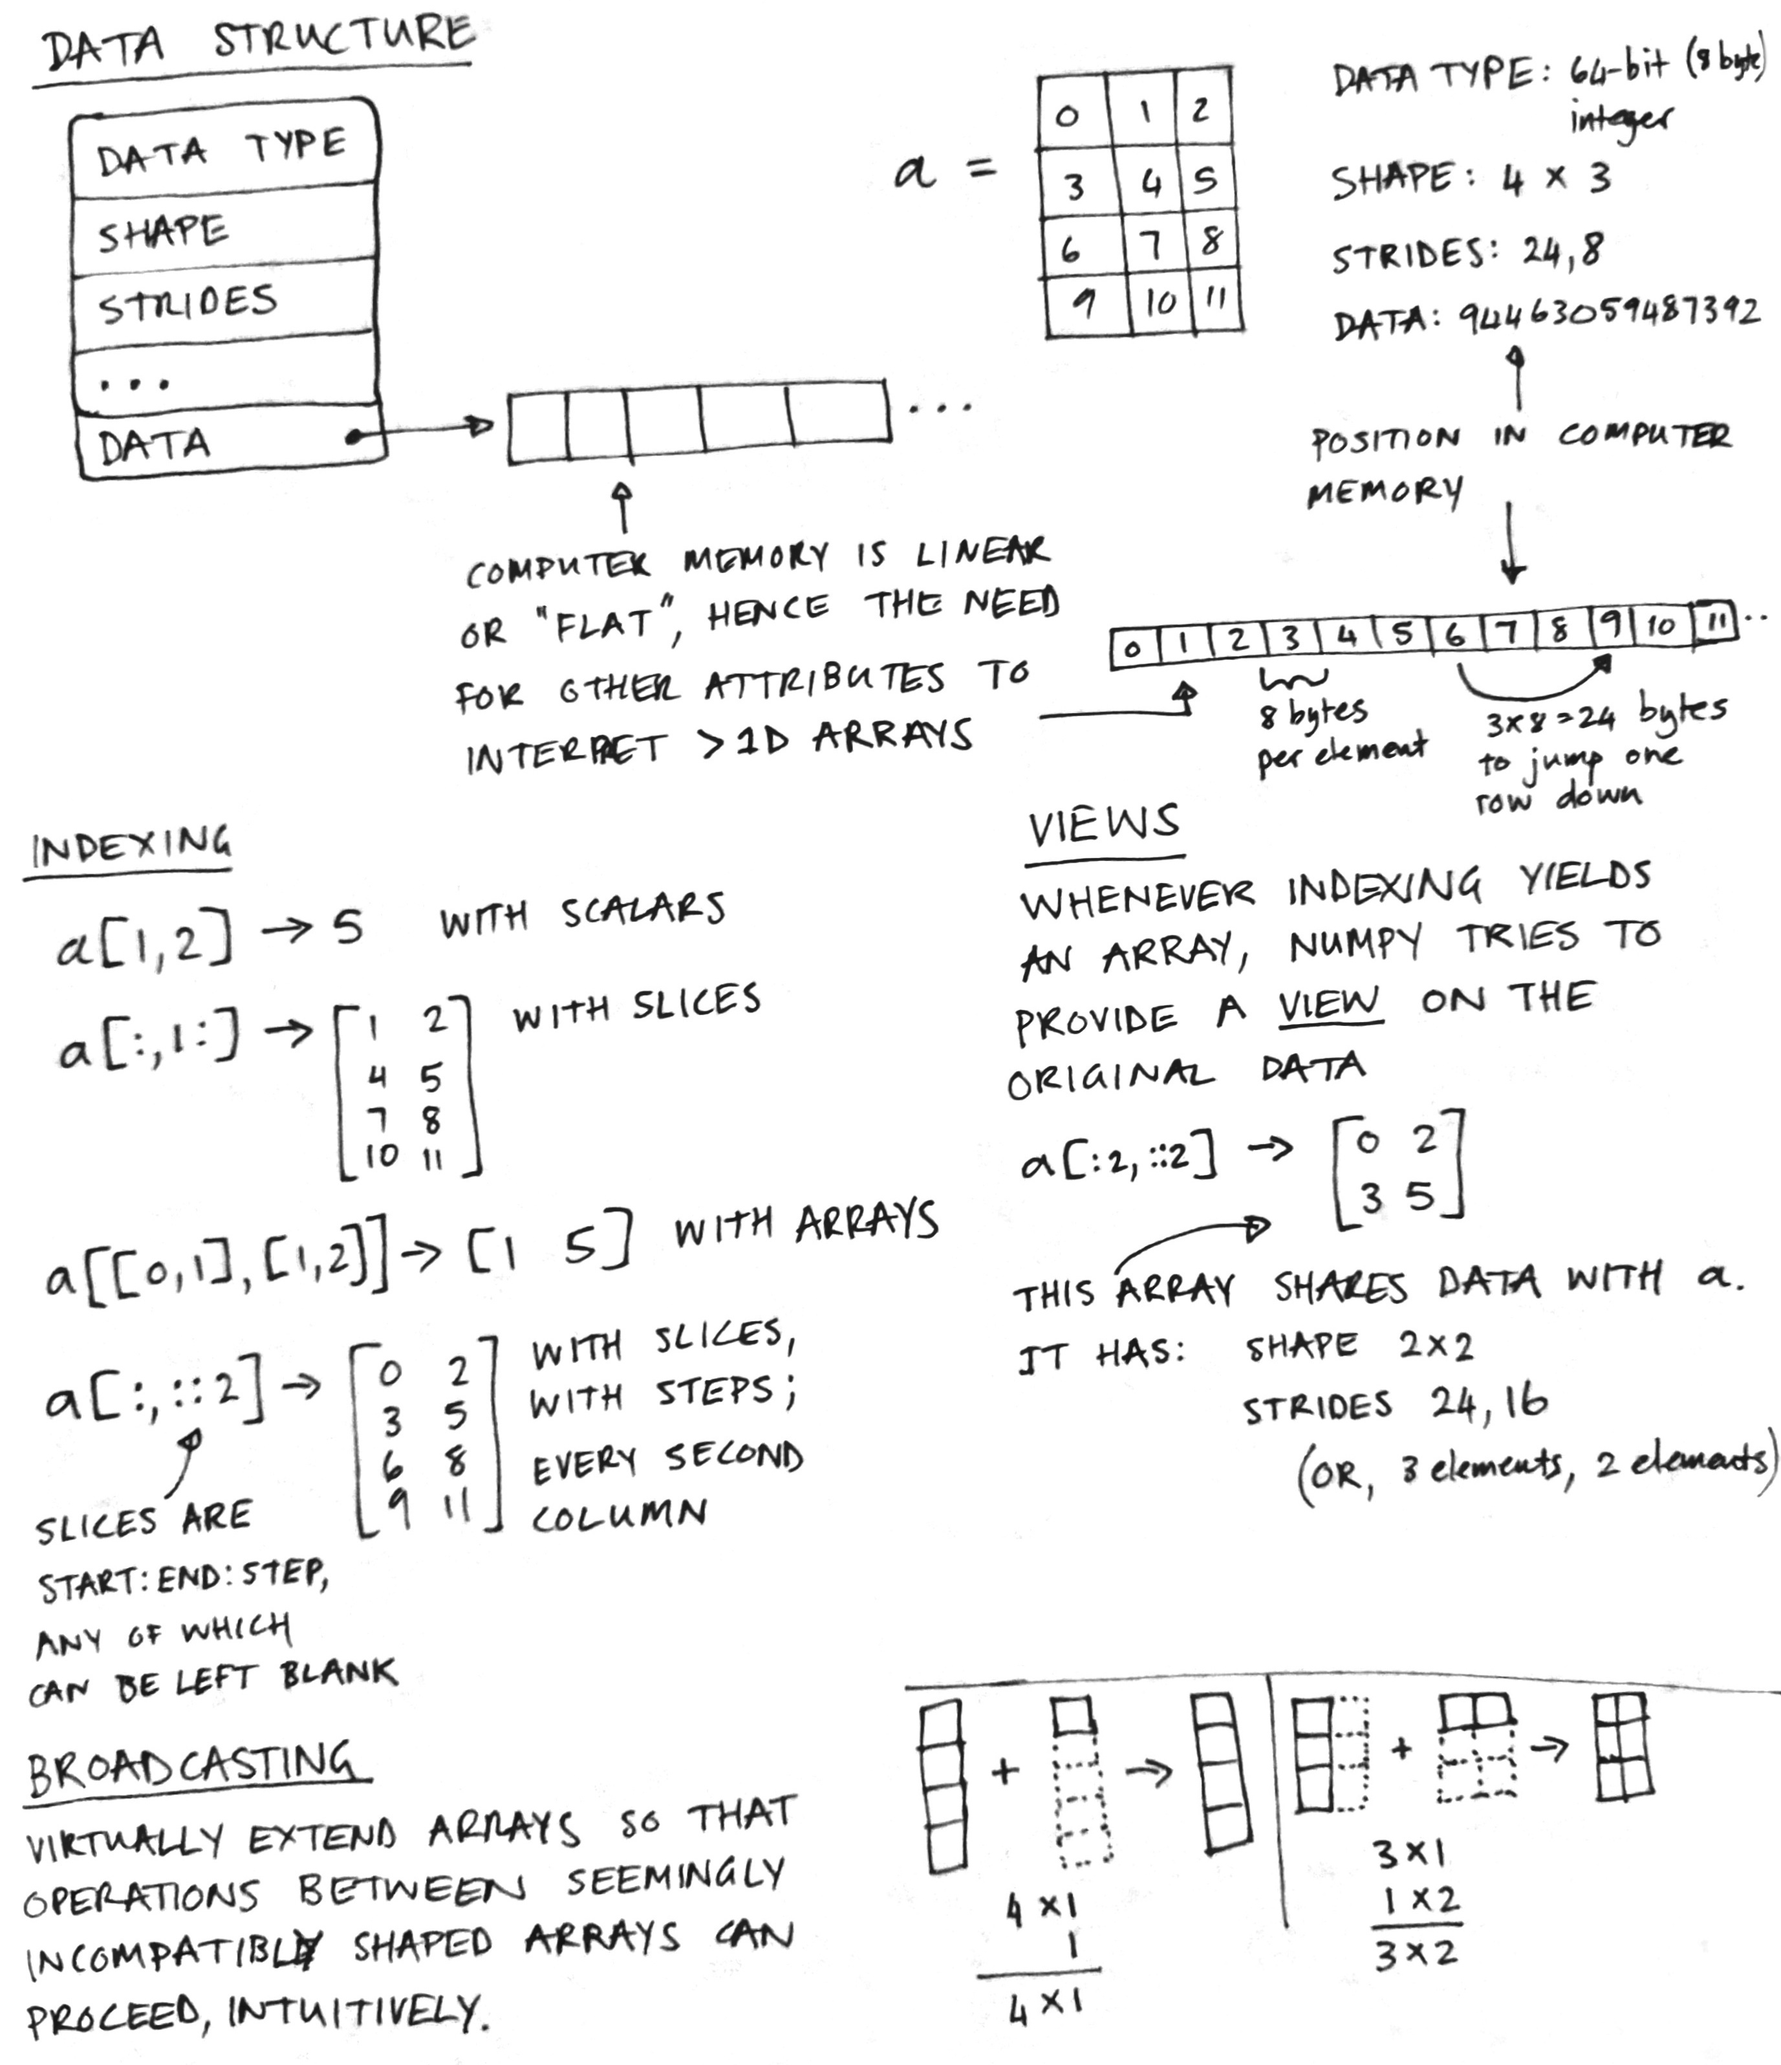
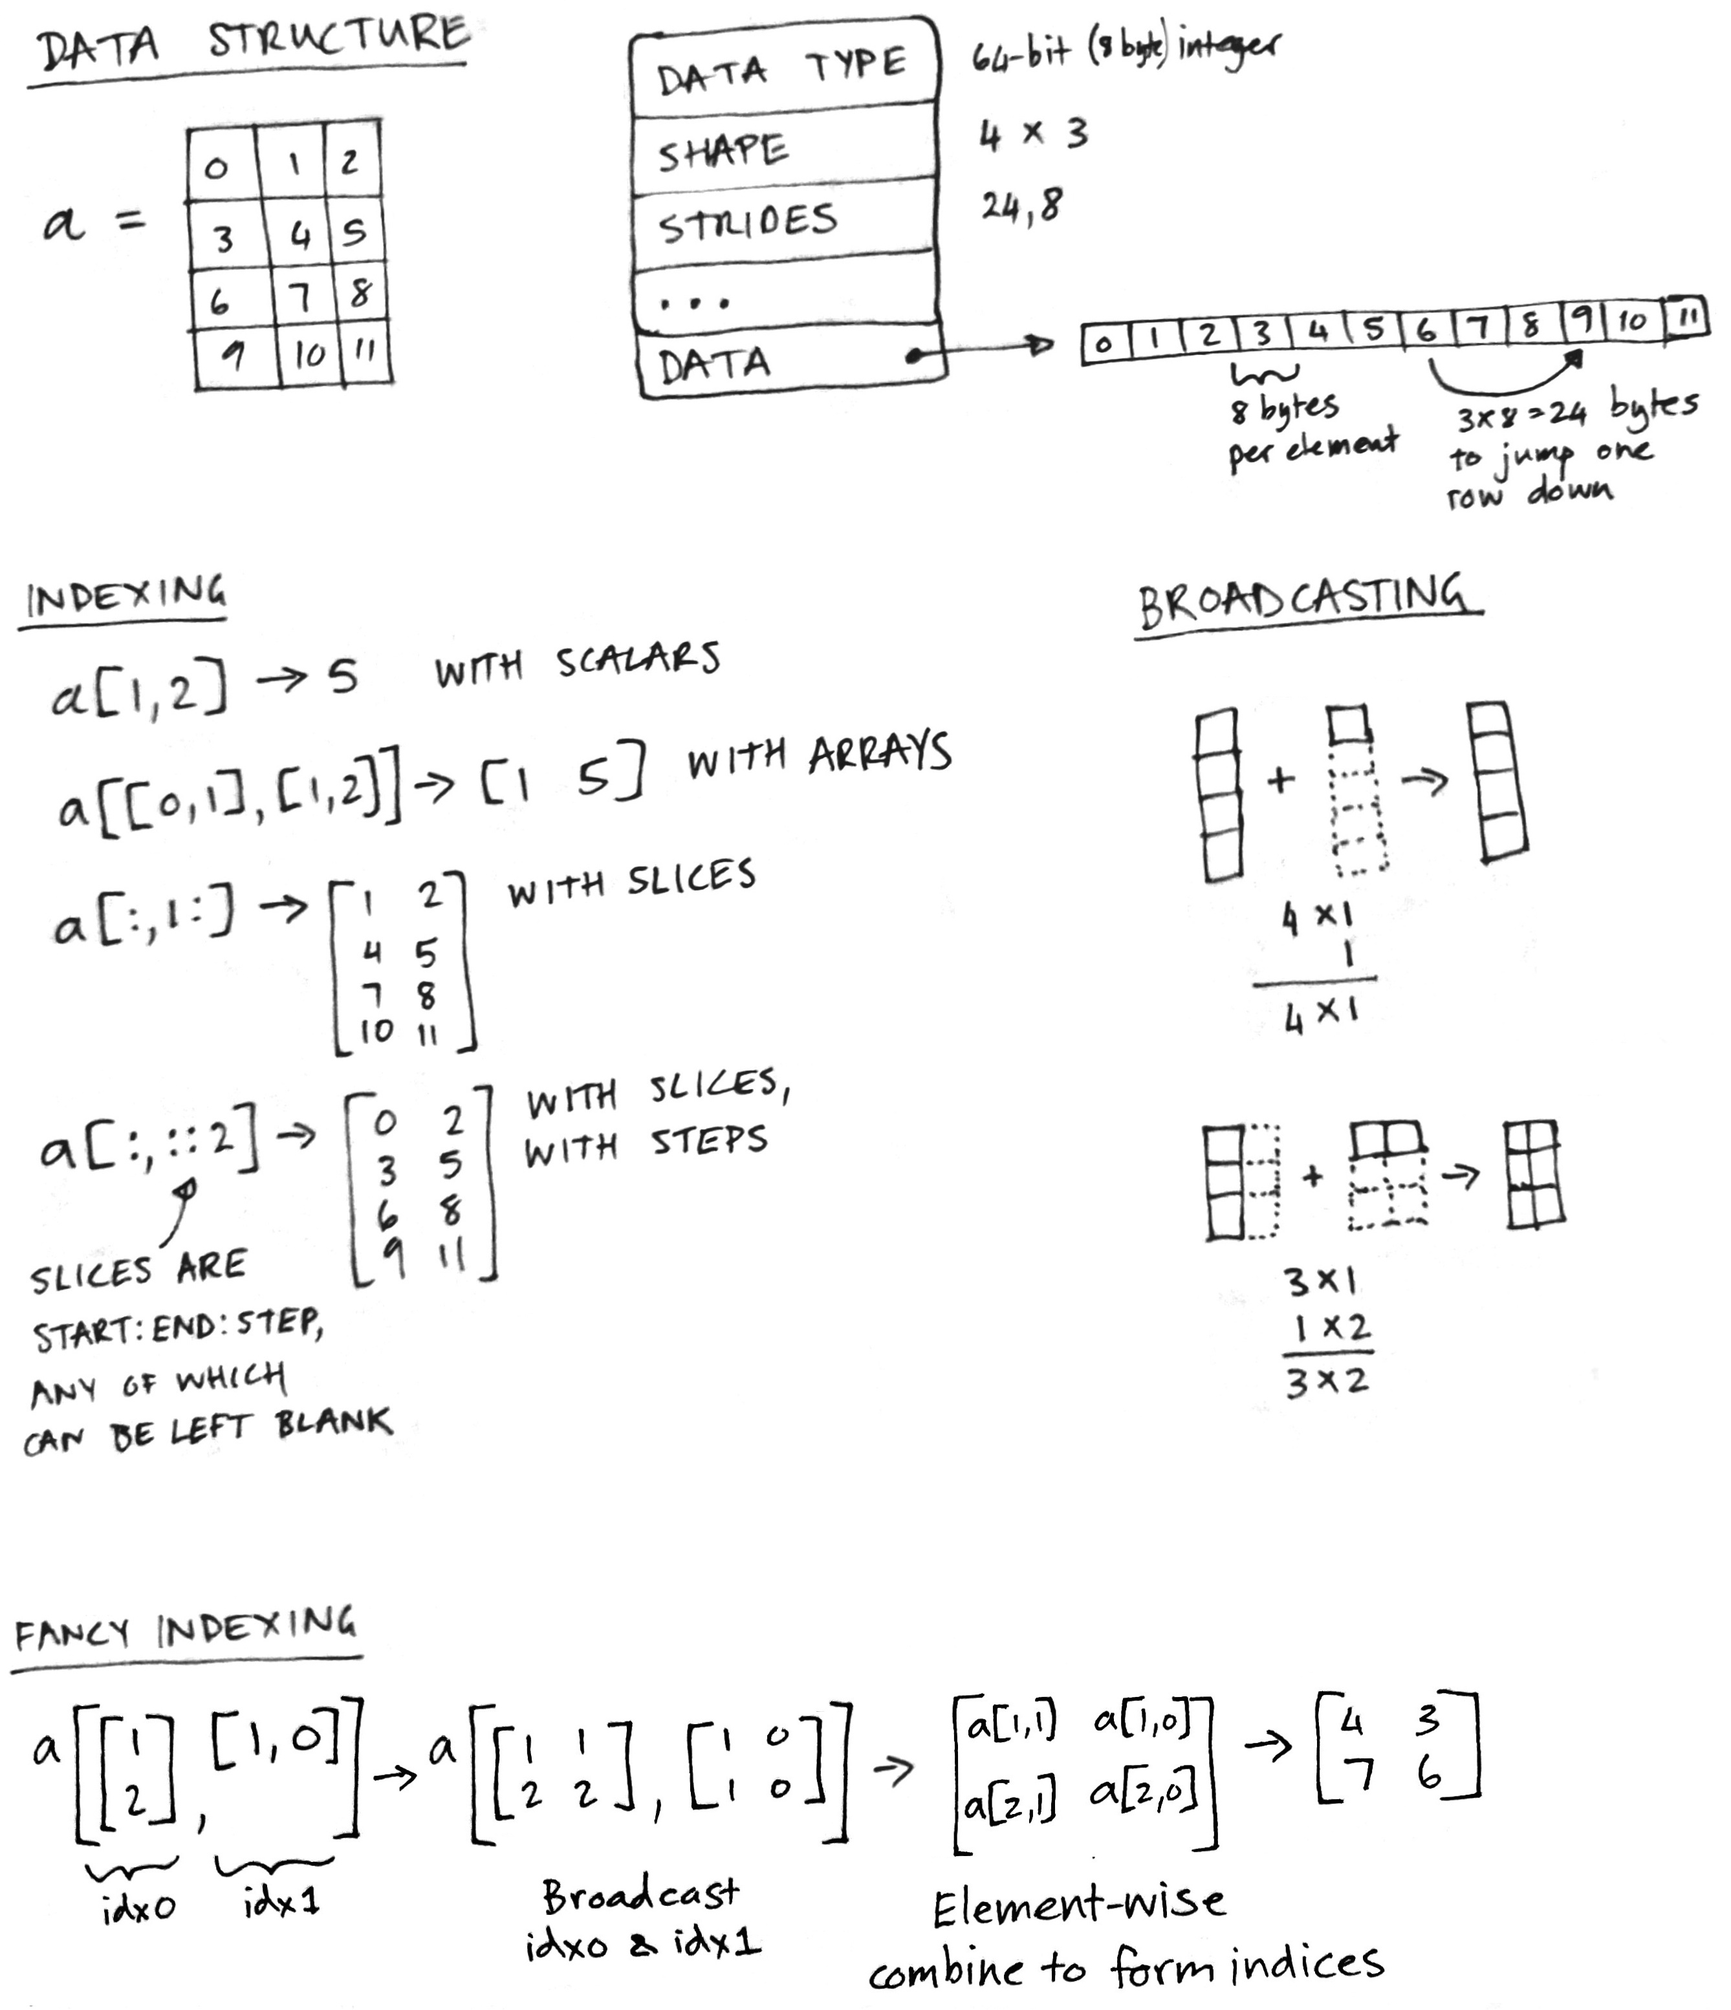
Simplify figure

diff --git a/body.tex b/body.tex
@@ -109,15 +109,15 @@ Other utility functions include creating, reshaping, concatenating, and padding 
 
 %Suppose the matrix \code{A} is a 2-d array and the vector \code{x} is a 1-d array.  Then \code{A @ x} computes %the matrix-vector product $Ax$ and \code{x @ A} computes the vector-matrix product $x^\top A$.  This matrix %multiplication operation extends to higher-dimensions by treating the array as a stack of matrices.
 
-Finally, a powerful array feature that affects the way NumPy indexes and combines arrays, is {\em broadcasting}. When performing an operation (such as addition) on two arrays, one intuitively expect that these arrays should be required to have the same shape.  However, through broadcasting, NumPy allows the dimensions to differ, while still producing results that appeal to intuition.  A trivial example is the addition of a scalar value to an array, but it also generalizes to more complex examples such as scaling each column of an array, or generating a grid of coordinates.  In broadcasting, one or both arrays are virtually duplicated (that is, without copying any data in memory), so that the shapes of the operands match (see Figure~\ref{fig:array-concepts}).  Broadcasting is also applied whenever an array is indexed using arrays of indices (see Figure~\ref{fig:broadcasting}).
+Finally, a powerful array feature that affects the way NumPy indexes and combines arrays, is {\em broadcasting}. When performing an operation (such as addition) on two arrays, one intuitively expect that these arrays should be required to have the same shape.  However, through broadcasting, NumPy allows the dimensions to differ, while still producing results that appeal to intuition.  A trivial example is the addition of a scalar value to an array, but it also generalizes to more complex examples such as scaling each column of an array, or generating a grid of coordinates.  In broadcasting, one or both arrays are virtually duplicated (that is, without copying any data in memory), so that the shapes of the operands match (see Figure~\ref{fig:array-concepts}).  Broadcasting is also applied whenever an array is indexed using arrays of indices.% (see Figure~\ref{fig:broadcasting}).
 
-\begin{figure}
-  \centering
-  \includegraphics[width=\linewidth]{static/sketches/fancy-indexing}
-  \caption{\fixme{Indexing using arrays, or ``fancy indexing''.}
-   }
-  \label{fig:broadcasting}
-\end{figure}
+%\begin{figure}
+%  \centering
+%  \includegraphics[width=\linewidth]{static/sketches/fancy-indexing}
+%  \caption{\fixme{Indexing using arrays, or ``fancy indexing''.}
+%   }
+%  \label{fig:broadcasting}
+%\end{figure}
 
 \begin{figure}
   \centering
